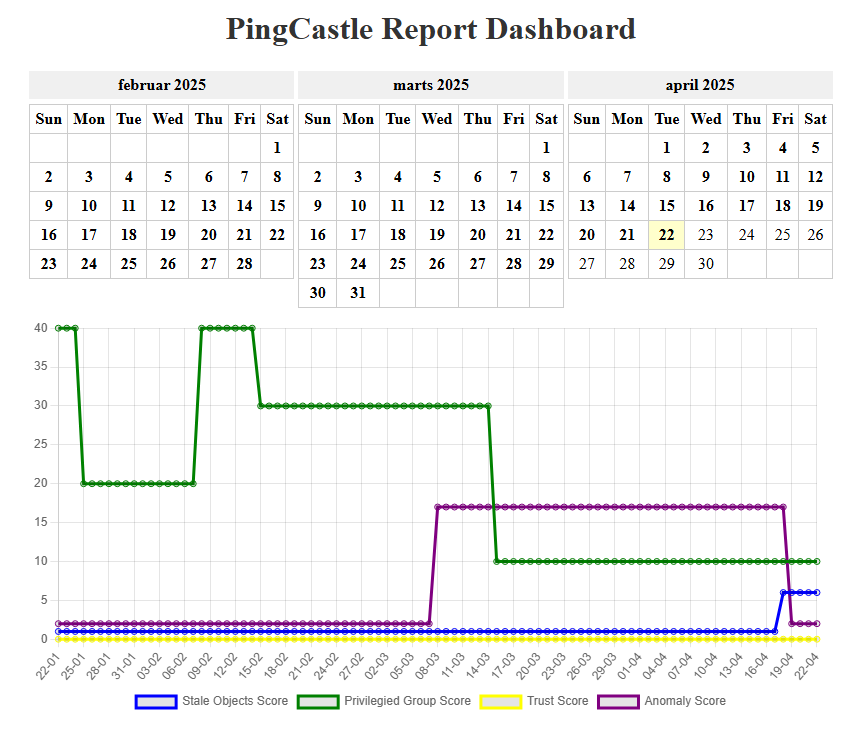
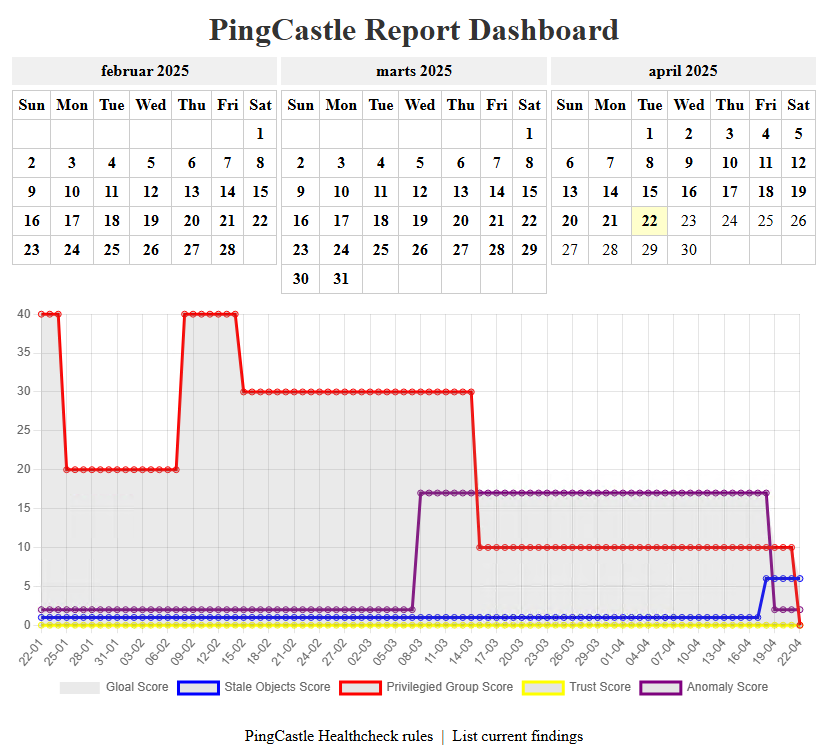
Update & add
Update Default.asp with new features, and added the ListRules

Changed region(s): [[0.0, 0.0, 1.0, 0.9918]]

diff --git a/ADDS Scripts/PingCastle/Dashboards/README.md b/ADDS Scripts/PingCastle/Dashboards/README.md
@@ -7,12 +7,18 @@ Requires the PingCastle repports to be in seperate folders with dateformat like 
 
 ### Default.asp  
 Combines the Calender and GraphJs into one page.  
-takes a minute to load, the server needs to parse all the xml files.
+takes a minute to load, the server needs to parse all the xml files.  
+  
+![Default](https://github.com/SysAdminDk/MS-Infrastructure/blob/cb1dd44ee792352b35bc0124b51de8a5e87629e8/ADDS%20Scripts/PingCastle/Dashboards/images/Default-example.png)
+  
+### ListRules.asp  
+Finds ALL xml files in the folder, and list ALL findings, mark the removed with a date.  
+takes a minute to load, the server needs to parse all the xml files.  
   
 ![Default](https://github.com/SysAdminDk/MS-Infrastructure/blob/cb1dd44ee792352b35bc0124b51de8a5e87629e8/ADDS%20Scripts/PingCastle/Dashboards/images/Default-example.png)
   
 ### Calender.asp  
-Shows the last 3 monts with links to the html reports.
+Shows the last 3 monts with links to the html reports.  
   
 ![Calender](https://github.com/SysAdminDk/MS-Infrastructure/blob/4702c119e1785850ba130b1b2204c95eda43299d/ADDS%20Scripts/PingCastle/Dashboards/images/Calender-example.png)
   
